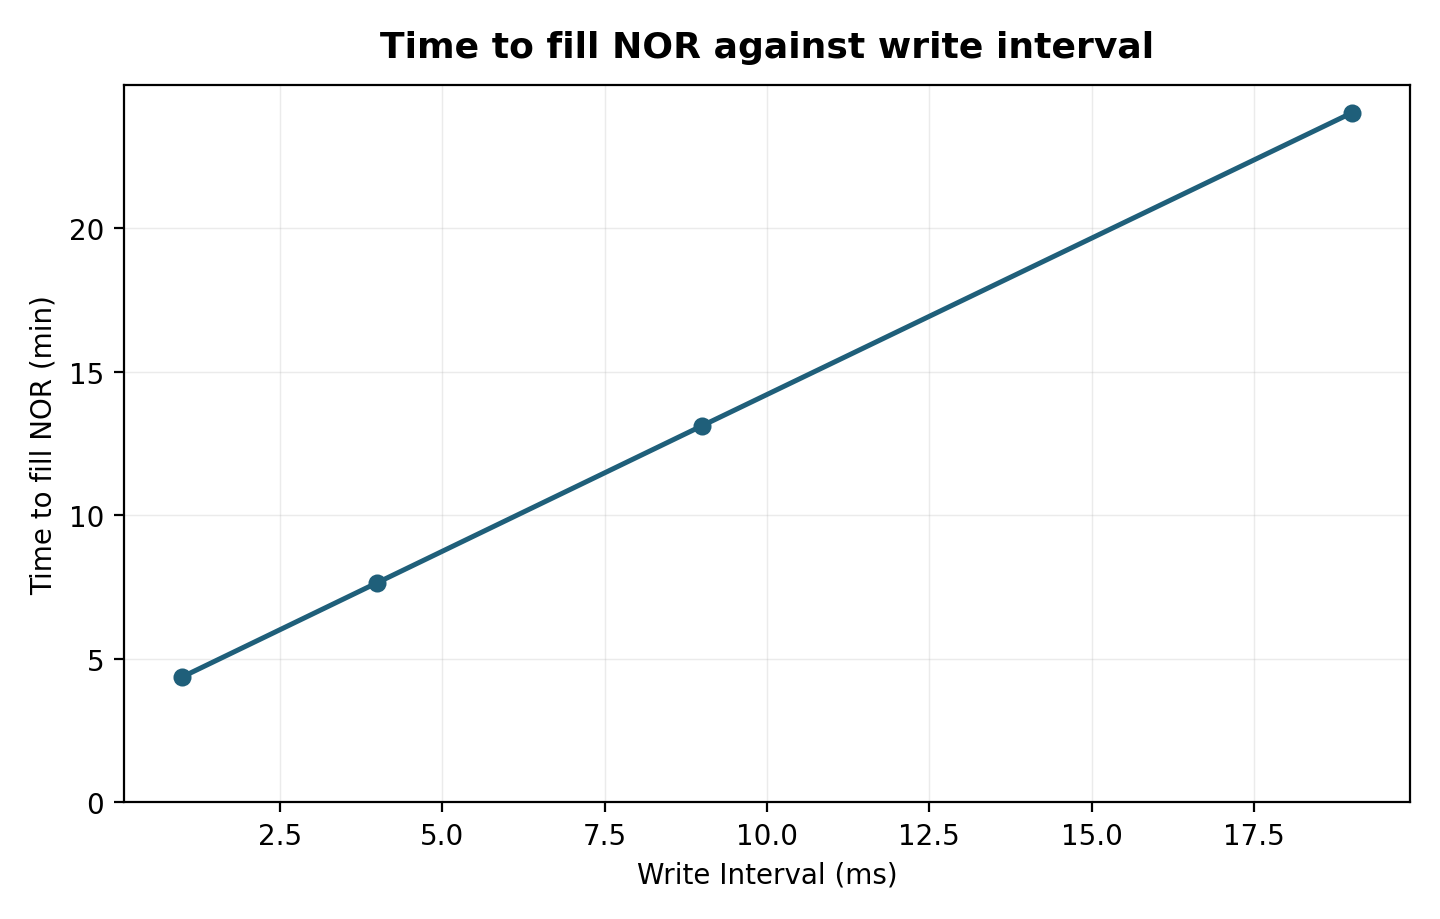
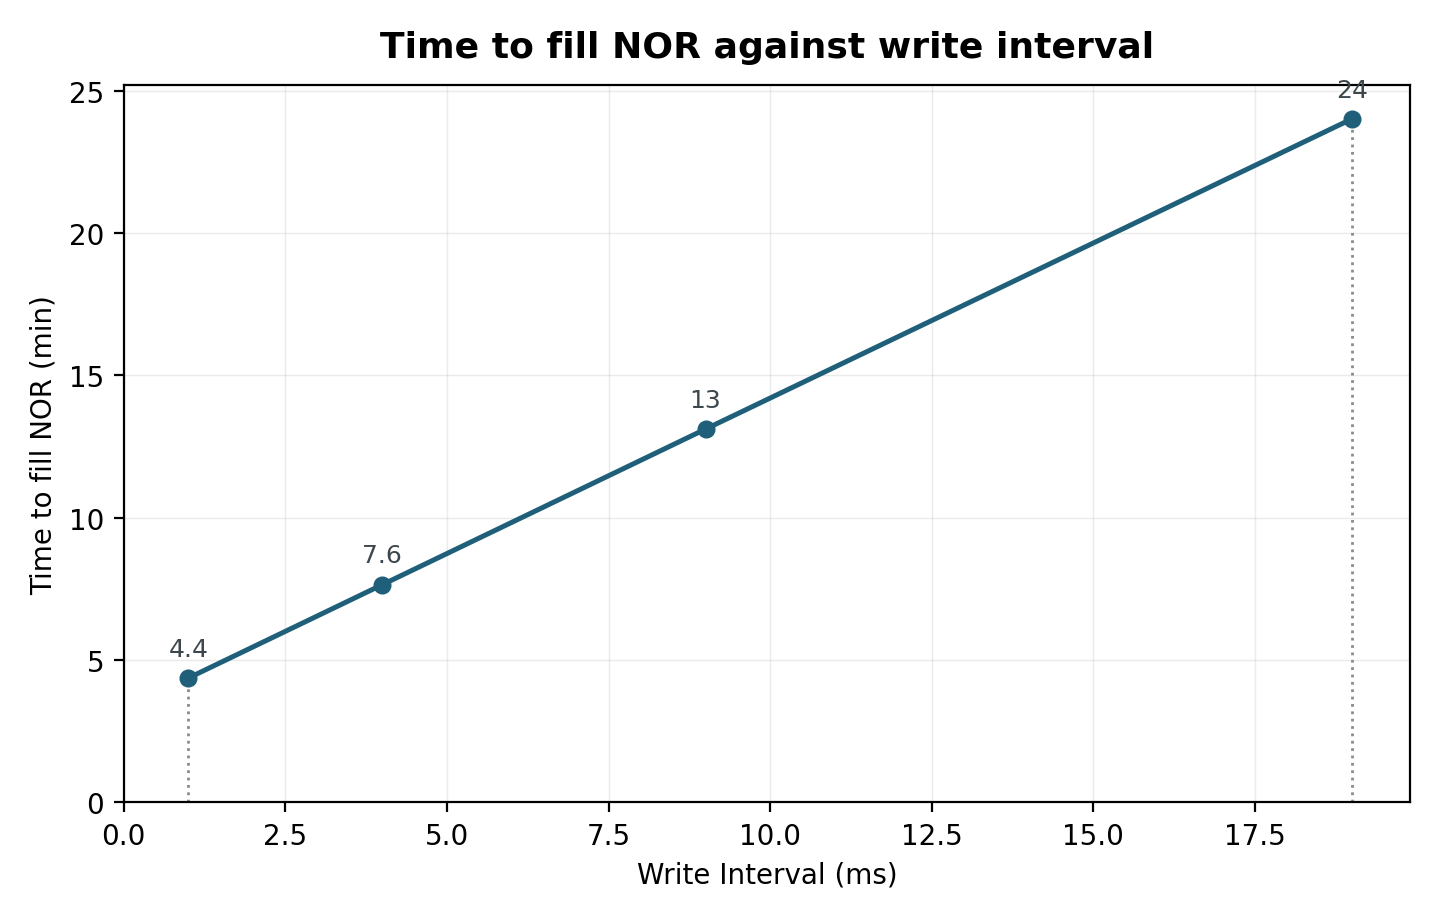
fig5: mark both ends, label the points, sweep the actual default
19 ms was an arbitrary choice of mine to bracket the default; it is not a
limit. The two intervals that mean anything are the 1 ms clamp -- the fastest
the governor will go, so 250 promotions/s is a ceiling -- and the 24 ms
five-year service default. wear_days=1826 joins the sweep so the figure spans
those two rather than stopping short of the one the system actually runs at.

Dotted drop lines at the first and last point so the range reads off the
axes, and every point carries its value in minutes.

diff --git a/scripts/plot_selftest.py b/scripts/plot_selftest.py
@@ -123,9 +123,19 @@ if r:
         byiv.setdefault(i_, []).append(m_)
     iv = sorted(byiv)
     me = [sum(byiv[k]) / len(byiv[k]) for k in iv]
+    mins = [POOL / m / 60 for m in me]
     fig, ax = plt.subplots(figsize=(7.2, 4.6))
-    ax.plot(iv, [POOL / m / 60 for m in me], "o-", color=C_DRAM, lw=1.8, ms=5.5)
+    ax.plot(iv, mins, "o-", color=C_DRAM, lw=1.8, ms=5.5, zorder=3)
+    # Drop lines at the two ends so the range is readable off the axes: the
+    # fastest the governor will go, and the interval it actually runs at.
+    for x_, y_ in ((iv[0], mins[0]), (iv[-1], mins[-1])):
+        ax.vlines(x_, 0, y_, color=C_GRID, ls=":", lw=1)
+    for x_, y_ in zip(iv, mins):
+        ax.annotate(f"{y_:.0f}" if y_ >= 10 else f"{y_:.1f}", (x_, y_),
+                    textcoords="offset points", xytext=(0, 8), ha="center",
+                    fontsize=9, color="#3d474e")
     ax.set_ylim(bottom=0)
+    ax.set_xlim(left=0)
     frame(ax, "Time to fill NOR against write interval",
           "Write Interval (ms)", "Time to fill NOR (min)")
     fig.tight_layout(); fig.savefig(f"{OUT}/fig5-time-to-fill.png", dpi=200)
